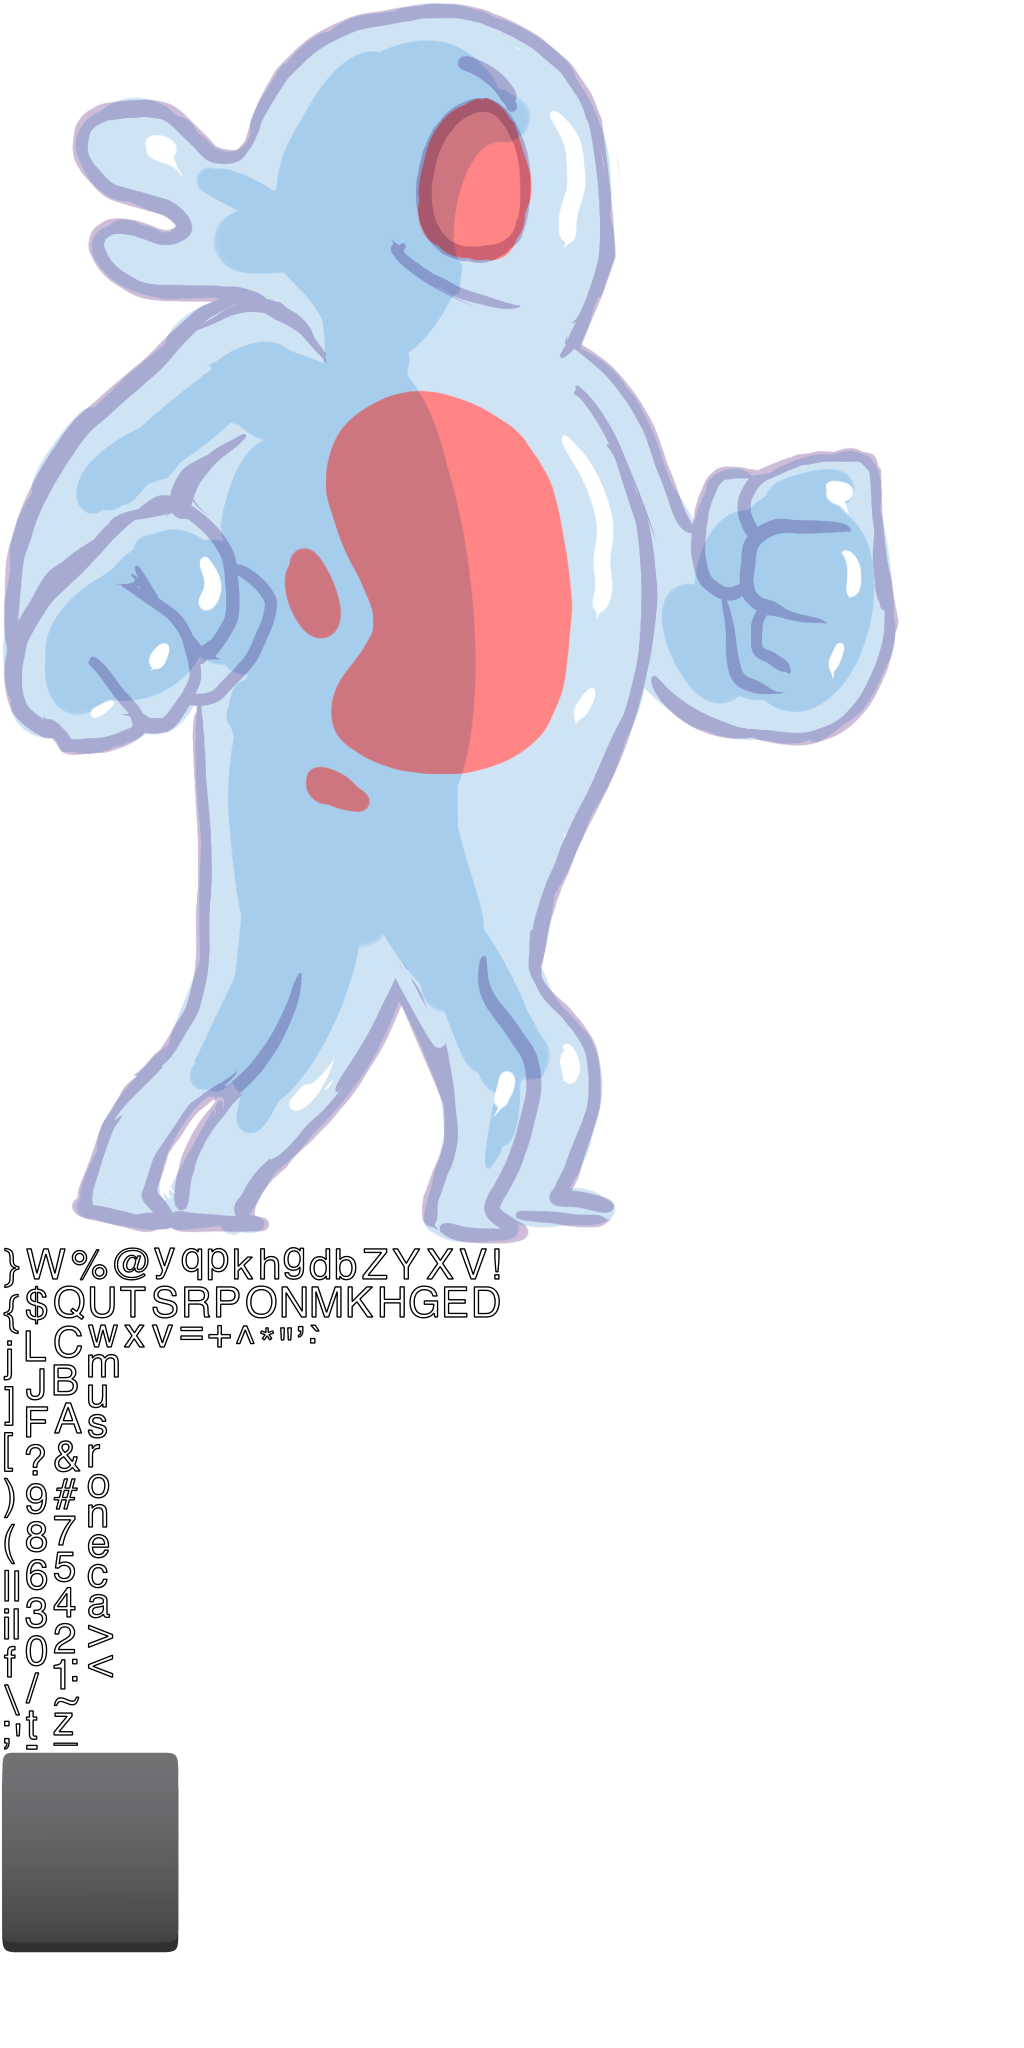
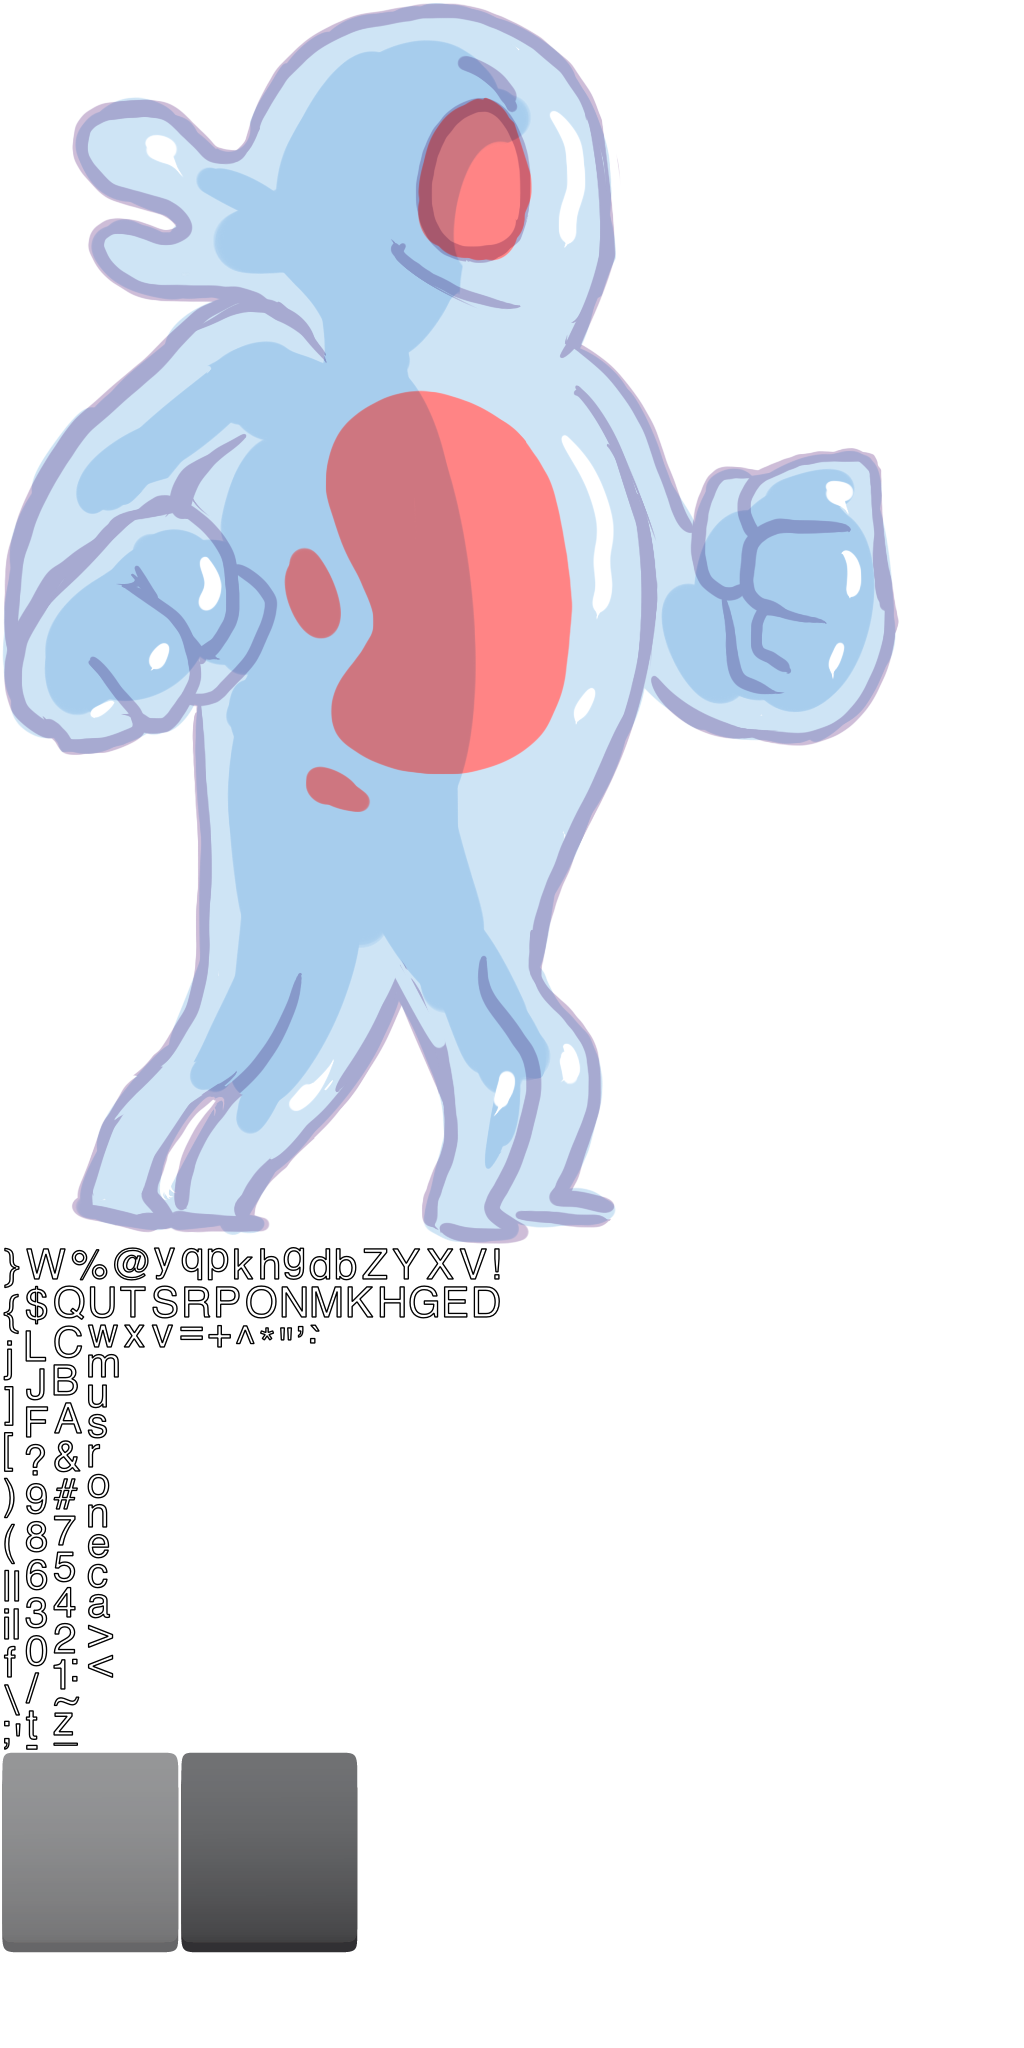
Main menu buttons are now working.

Changed region(s): [[0.0, 0.8438, 0.375, 0.9688]]

diff --git a/immunity/Assets/Scripts/TitlePage.cs b/immunity/Assets/Scripts/TitlePage.cs
@@ -23,10 +23,9 @@ public class TitlePage : ImmunityPage
 		background_.x = background_.width/2.0f - Futile.screen.halfWidth;
 		background_.y = background_.height/2.0f - Futile.screen.halfHeight;
 		
-		playButton_ = new FButton("BigButton", "BigButton"); // "BigButton", "ButtonClickSound");
+		playButton_ = new FButton("BigButton", "BigButton_down"); // "BigButton_down"); //"ButtonClickSound");
 		playButton_.AddLabel("ImmunityFont", "Play", Color.white);
 		AddChild(playButton_);
-		
 		
 		playButton_.SignalRelease += HandlePlayButtonRelease;
 		
@@ -35,7 +34,7 @@ public class TitlePage : ImmunityPage
 		Go.to(playButton_, 0.5f, new TweenConfig().setDelay(0.1f).floatProp("scaleX", 1.0f).setEaseType(EaseType.BackOut));
 		Go.to(playButton_, 0.5f, new TweenConfig().setDelay(0.1f).floatProp("scaleY", 0.5f).setEaseType(EaseType.BackOut));
 		
-		howToPlayButton_ = new FButton("BigButton", "BigButton"); // "BigButton", "ButtonClickSound");
+		howToPlayButton_ = new FButton("BigButton", "BigButton_down"); // "BigButton", "ButtonClickSound");
 		howToPlayButton_.AddLabel("ImmunityFont", "How To Play", Color.white);
 		AddChild(howToPlayButton_);
 		
@@ -43,11 +42,11 @@ public class TitlePage : ImmunityPage
 		
 		howToPlayButton_.scale = 0.0f;
 		
-		Go.to(howToPlayButton_, 0.5f, new TweenConfig().setDelay(0.1f).floatProp("scaleX", 1.0f).setEaseType(EaseType.BackOut));
-		Go.to(howToPlayButton_, 0.5f, new TweenConfig().setDelay(0.1f).floatProp("scaleY", 0.5f).setEaseType(EaseType.BackOut));
+		// Go.to(howToPlayButton_, 0.5f, new TweenConfig().setDelay(0.1f).floatProp("scaleX", 1.0f).setEaseType(EaseType.BackOut));
+		//Go.to(howToPlayButton_, 0.5f, new TweenConfig().setDelay(0.1f).floatProp("scaleY", 0.5f).setEaseType(EaseType.BackOut));
 
 		
-		settingsButton_ = new FButton("BigButton", "BigButton"); // "BigButton", "ButtonClickSound");
+		settingsButton_ = new FButton("BigButton", "BigButton_down"); // "BigButton", "ButtonClickSound");
 		settingsButton_.AddLabel("ImmunityFont", "Settings", Color.white);
 		AddChild(settingsButton_);
 		
@@ -60,8 +59,10 @@ public class TitlePage : ImmunityPage
 		Go.to(settingsButton_, 0.5f, new TweenConfig().setDelay(0.1f).floatProp("scaleY", 0.5f).setEaseType(EaseType.BackOut));
 		
 		
-		playButton_.y = (howToPlayButton_.hitRect.yMax - howToPlayButton_.hitRect.yMin)/2.0f + 50.0f ;
-		settingsButton_.y = -((howToPlayButton_.hitRect.yMax - howToPlayButton_.hitRect.yMin)/2.0f + 50.0f);
+		//playButton_.y = (howToPlayButton_.hitRect.yMax - howToPlayButton_.hitRect.yMin)/2.0f + 50.0f ;
+		//settingsButton_.y = -((howToPlayButton_.hitRect.yMax - howToPlayButton_.hitRect.yMin)/2.0f + 50.0f);
+		playButton_.y = 50.0f;
+		settingsButton_.y = -50.0f;
 	}
 	
 	private void HandlePlayButtonRelease(FButton button)
